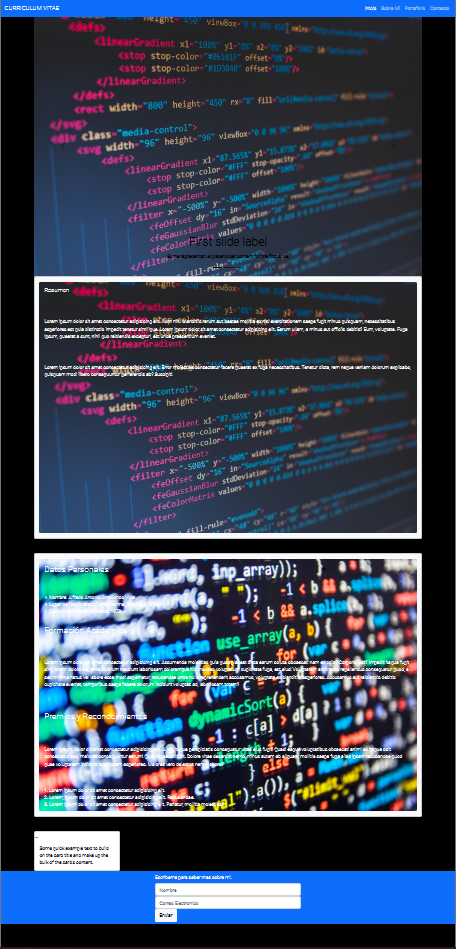
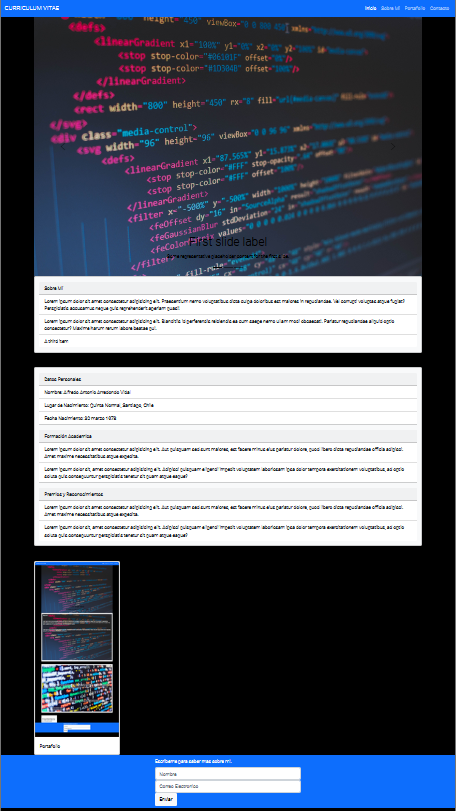
otros mas cambios

diff --git a/index.html b/index.html
@@ -53,21 +53,21 @@
             </div>
             <div class="carousel-inner">
                 <div class="carousel-item active" data-bs-interval="10000">
-                    <img src="assets/img/fondo001.jpg" class="d-block w-100" alt="...">
+                    <img src="assets/img/fondo001.jpg" class="d-block w-100" alt="imagen de fondo de pantalla con programacion">
                     <div class="carousel-caption d-none d-md-block" id="carrusel01">
                         <h1>First slide label</h1>
                         <p>Some representative placeholder content for the first slide.</p>
                     </div>
                 </div>
                 <div class="carousel-item" data-bs-interval="2000">
-                    <img src="assets/img/fondo002.jpg" class="d-block w-100" alt="...">
+                    <img src="assets/img/fondo002.jpg" class="d-block w-100" alt="imagen de fondo de pantall con codigo de programacion"">
                     <div class="carousel-caption d-none d-md-block" id="carrusel02">
                         <h1>Second slide label</h1>
                         <p>Some representative placeholder content for the second slide.</p>
                     </div>
                 </div>
                 <div class="carousel-item">
-                    <img src="assets/img/fondo003.jpg" class="d-block w-100" alt="...">
+                    <img src="assets/img/fondo003.jpg" class="d-block w-100" alt="imagen de fondo de pantalla con codigo de">
                     <div class="carousel-caption d-none d-md-block" id="carrusel03">
                         <h1>Third slide label</h1>
                         <p>Some representative placeholder content for the third slide.</p>
@@ -84,27 +84,54 @@
                 </button>
             </div>
 
-            <div class="card text-bg-dark shadow p-3 mb-5 bg-light rounded" >
-                <img src="assets/img/fondo001.jpg" class="card-img" alt="...">
-                <div class="card-img-overlay" }>
-                    <h5 class="card-title p-3 mb-5"><a name="sobremi"></a>Resumen</h5>
-                    <p class="card-text p-3 mb-5">Lorem ipsum dolor sit amet consectetur adipisicing elit. Illum nihil blanditiis rerum aut beatae mollitia ex nisi exercitationem saepe fugit minus quisquam, necessitatibus asperiores est quia distinctio impedit tenetur similique. Lorem ipsum dolor sit amet consectetur adipisicing elit. Earum ullam, a minus aut officiis debitis? Eum, voluptate. Fuga ipsum, quaerat a sunt, nihil quo reiciendis excepturi, est unde praesentium eveniet.</p>
-                    <p class="card-text p-3 mb-5">Lorem ipsum dolor sit amet consectetur adipisicing elit. Error molestiae consectetur facere quaerat ex fuga necessitatibus. Tenetur dicta, rem neque veniam dolorum explicabo, quisquam modi libero consequuntur perferendis ab? Suscipit!</p>
+            <div class="card shadow p-3 mb-5 bg-light rounded" style="width: 100%;">
+                <div class="card-header"><a name="sobremi"></a>
+                    Sobre Mí
                 </div>
+                <ul class="list-group list-group-flush">
+                    <li class="list-group-item">Lorem ipsum dolor sit amet consectetur adipisicing elit. Praesentium nemo voluptatibus dicta culpa doloribus est maiores in repudiandae. Vel corrupti voluptas atque fugiat? Perspiciatis accusamus neque quis reprehenderit aperiam quasi!</li>
+                    <li class="list-group-item">Lorem ipsum dolor sit amet consectetur adipisicing elit. Blanditiis id perferendis reiciendis ea cum saepe nemo ullam modi obcaecati. Pariatur repudiandae aliquid optio consectetur? Maxime harum rerum labore beatae qui.</li>
+                    <li class="list-group-item">A third item</li>
+                </ul>
             </div>
 
+            <div class="card shadow p-3 mb-5 bg-light rounded" style="width: 100%;">
+                <div class="card-header"><a name="sobremi"></a>
+                    Datos Personales
+                </div>
+                <ul class="list-group list-group-flush">
+                    <li class="list-group-item">Nombre: Alfredo Antonio Arredondo Vidal</li>
+                    <li class="list-group-item">Lugar de Nacimiento: Quinta Normal, Santiago, Chile</li>
+                    <li class="list-group-item">Fecha Nacimiento: 30 marzo 1978</li>
+                </ul><p></p>
+                <div class="card-header">
+                    Formación Academica
+                </div>
+                <ul class="list-group list-group-flush">
+                    <li class="list-group-item">Lorem ipsum dolor sit amet consectetur adipisicing elit. Aut quisquam sed sunt maiores, est facere minus eius pariatur dolore, quod libero dicta repudiandae officia adipisci. Amet maxime necessitatibus atque expedita.</li>
+                    <li class="list-group-item">Lorem ipsum dolor sit, amet consectetur adipisicing elit. Adipisci quisquam eligendi impedit voluptatem laboriosam ipsa dolor tempora exercitationem voluptatibus, ad optio soluta quis consequuntur perspiciatis tenetur sit quam atque eaque?</li>
+                </ul><p></p>
+                <div class="card-header">
+                    Premios y Reconocimientos
+                </div>
+                <ul class="list-group list-group-flush">
+                    <li class="list-group-item">Lorem ipsum dolor sit amet consectetur adipisicing elit. Aut quisquam sed sunt maiores, est facere minus eius pariatur dolore, quod libero dicta repudiandae officia adipisci. Amet maxime necessitatibus atque expedita.</li>
+                    <li class="list-group-item">Lorem ipsum dolor sit, amet consectetur adipisicing elit. Adipisci quisquam eligendi impedit voluptatem laboriosam ipsa dolor tempora exercitationem voluptatibus, ad optio soluta quis consequuntur perspiciatis tenetur sit quam atque eaque?</li>
+                </ul>
+            </div>
+<!-- 
             <div class="card text-bg-dark shadow p-3 mb-5 bg-light rounded">
                 <img src="assets/img/fondo007.jpg" class="card-img" alt="...">
                 <div class="card-img-overlay p-3 mb-5 text-dark">
-                    <h3 class="card-title p-3 mb-5">Datos Personales</h3>
+                    <p class="card-title p-3 mb-5 h3">Datos Personales</p>
                     <ul>
                         <li>Nombre: Alfredo Antonio Arredondo Vidal</li>
                         <li>Lugar de Nacimiento: Quinta Normal, Santiago, Chile</li>
                         <li>Fecha Nacimiento: 30 marzo 1978</li>
                     </ul>
-                    <h3 class="card-title p-3 mb-5">Formación Academica</h3>
+                    <p class="card-title h3 p-3 mb-5">Formación Academica</p>
                     <p class="card-title p-3 mb-5">Lorem ipsum dolor sit amet consectetur adipisicing elit. Assumenda molestias quia quas placeat dicta earum soluta obcaecati nam ex odio? Corporis, est? Impedit itaque fugit sint, totam dolore sapiente dolorum nesciunt laboriosam doloremque hic maiores voluptatum cupiditate fuga, est eius! Voluptatem architecto repellendus consequatur quod, a sed minima natus vel labore esse modi aspernatur, recusandae unde nulla reprehenderit accusamus, voluptate ex blanditiis asperiores. Accusamus aut reiciendis debitis cupiditate eveniet, temporibus saepe facere dolorum incidunt voluptas ad, laboriosam totam?</p>
-                    <h3 class="card-title p-3 mb-5">Premios y Reconocimientos</h3>
+                    <p class="card-title p-3 mb-5 h3">Premios y Reconocimientos</p>
                     <p class="card-title p-3 mb-5">Lorem ipsum, dolor sit amet consectetur adipisicing elit. Alias, itaque perspiciatis consequatur vitae eius fugit! Quasi eaque voluptatibus obcaecati animi ex itaque odit consectetur sed, maiores consequuntur earum! Quo, obcaecati odit. Dolore vitae deserunt nemo, minus autem ab aliquam mollitia saepe fuga alias ipsam recusandae quod quae voluptatem incidunt laboriosam asperiores. Maiores vero delectus nemo labore?</p>
                     <ol>
                         <li>Lorem ipsum dolor sit amet consectetur adipisicing elit.</li>
@@ -112,11 +139,11 @@
                         <li>Lorem ipsum dolor sit amet consectetur adipisicing elit. Pariatur, mollitia molestias?</li>
                     </ol>
                 </div>
-            </div>
+            </div> -->
             <div class="card" style="width: 18rem;">
+                <a name="portafolio"></a>
                 <img src="assets/img/screenshot.png" class="card-img-top" alt="...">
                 <div class="card-body">
-                    <a name="portafolio"></a>
                     <p class="card-text">Portafolio</p>
                 </div>
             </div>
